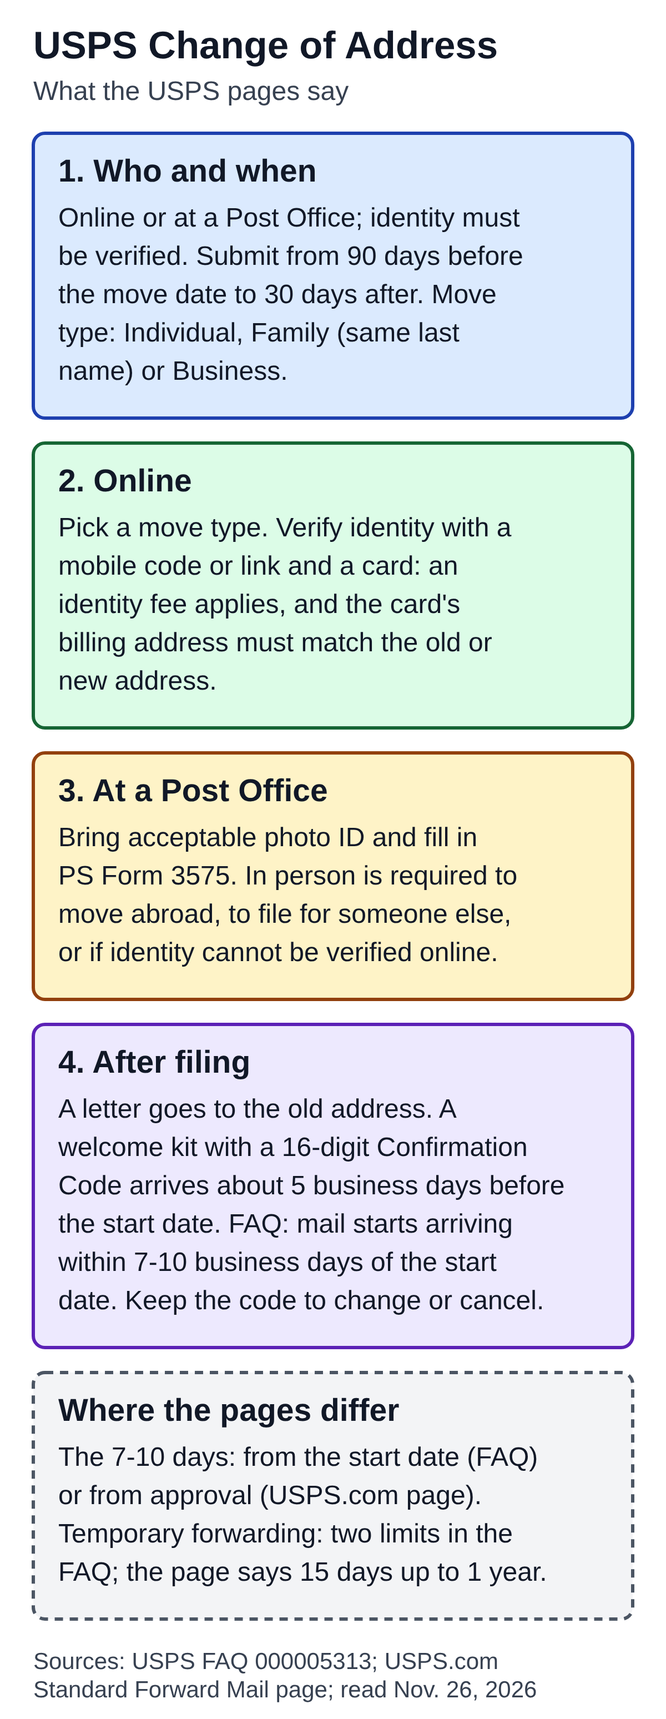
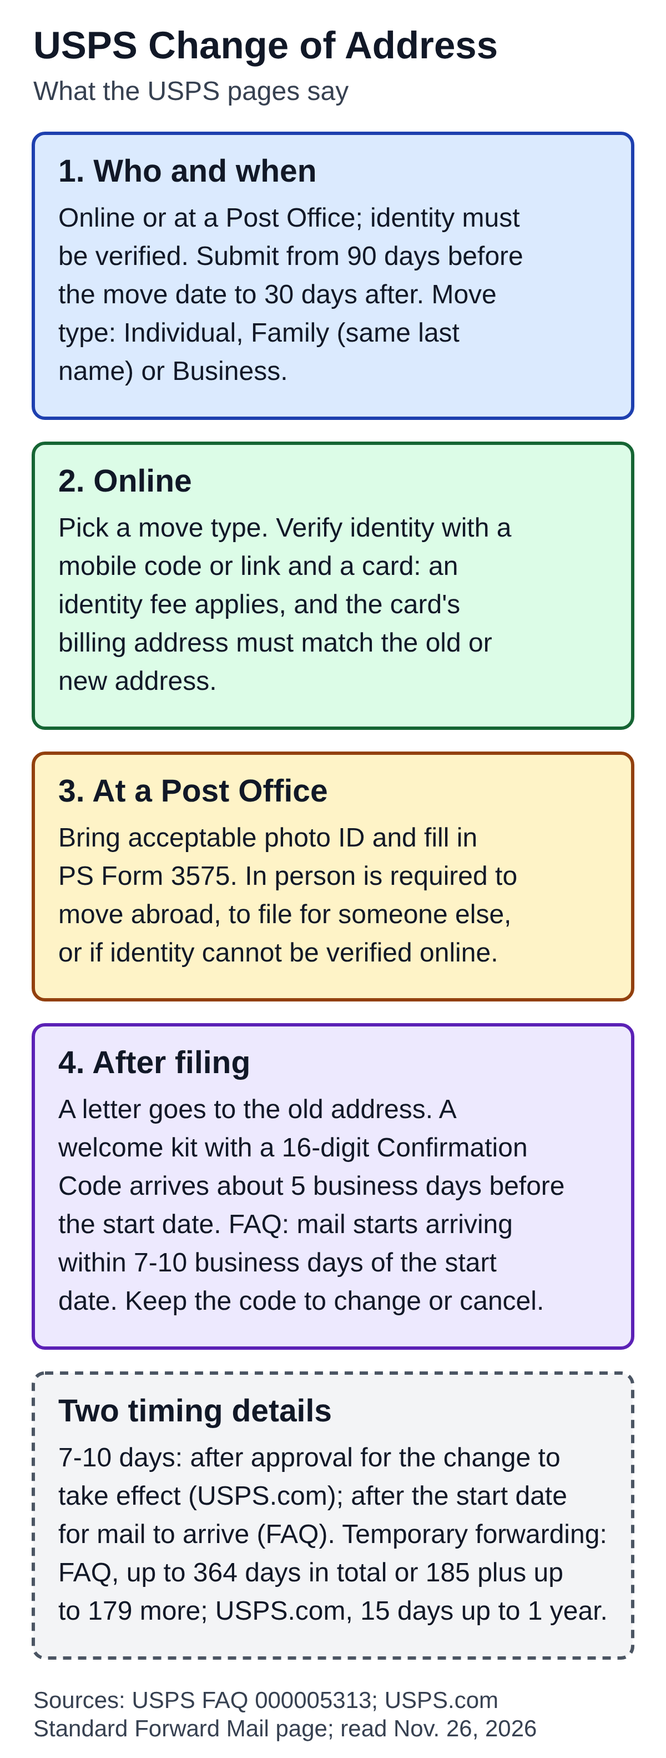
Change of Address: fix timing section after Gate 2 FIX
The 7-10 business days (after approval vs after the start date) and the temporary forwarding periods (364-day total, 185 plus up to 179 more, 15 days up to 1 year) are no longer presented as conflicts. Body, diagram and alt text changed together; records updated. Gate 2 on the changed parts not yet run.

Claude-Session: https://claude.ai/code/session_01BXtGEA3Qzg6u2ejRb8jbFU

diff --git a/docs/content-backlog.md b/docs/content-backlog.md
@@ -80,7 +80,7 @@ Pilot 12 plan: 12 published + 0 ready + 0 draft + 0 briefs = 12 slots, 4 per lan
 | 44 | `usps-return-receipt-how-it-works` | USPS Return Receipt: Green Card vs. Electronic Proof of Delivery | `usps return receipt` | **published 2026-11-25 15:00 KST (live QA passed about 15:20 KST)** (WordPress post 174, media 172; Gate 1 done by Claude: 15 claim groups, 87 phrase checks with 1 miss caused by the page's own spacing, 3 image checks; Gate 2 round 1 on `f839045` = FIX (electronic timing condition, refund exceptions in the diagram, 48 hours against 3 to 5 days not a conflict, PME "Form 3811 only" tied to the green card), applied; Gate 2 round 2 on `ee58248` = PASS for the changed parts (the reviewer could not screen-check the PNG); moved to ready 2026-11-24; three sources re-read right before scheduling with no important change; built from the repository files; editor 0 invalid blocks; 375 and 320 px checked; scheduled at 06:00 UTC on 2026-11-25; live QA after it appears) | post-pilot (not counted) | Lane: postal service and stamps. From the ninth survey's measured list; second post for the 2026-11-25 slots. Sources: FAQ 000006076 (Sep 18, 2026), FAQ 000007257 (May 18, 2026), DMM 503 section 6.0 (no date). Demand: Trends relative only (about 0.23 x the anchor over 90 days, 0.33 x over 28 days); search volume not checked. No fees. Differences shown: electronic email timing, how the email address is given, two refund-timing sentences, whether PME can have the electronic version. Three internal links (Certified Mail, redelivery, refund). Older quick WordPress draft 168 is not used. Re-read all three sources right before publishing. |
 | 45 | `usps-general-delivery-how-it-works` | USPS General Delivery: How to Receive Mail Without a Permanent Address | `usps general delivery` | (handed-over first draft from commit `6e09600`, rewritten here; Gate 1 done by Claude: FAQ 30 of 30, DMM 14 of 14 phrase checks, 3 image checks; **published 2026-11-26 09:00 KST (live QA passed about 09:20 KST)** (WordPress post 178, media 177; pushed in `d955818`; Gate 2 round 1 = PASS on `d955818` (user-reported 2026-11-25); moved to ready 2026-11-25; both sources re-read right before scheduling with no important change; built from the repository files; editor 0 invalid blocks; 375 and 320 px checked; scheduled at 00:00 UTC on 2026-11-26; live QA after it appears) | post-pilot (not counted) | Lane: postal service and stamps. One of two posts for the 2026-11-26 slots (General Delivery 9 AM KST, Registered Mail 3 PM KST). Sources: FAQ 000006989 (Aug 4, 2026), DMM 508 sections 6.0 and 11.1 (no date). Demand: handed-over Trends note (0.09 of its anchor over 90 days, 0.2 over 28 days), not re-measured, search volume not checked. No prices (free where authorized). Differences shown: longer hold and 10 or 15 day note (FAQ only), restrict against refuse or restrict, four purposes against two. Two internal links (PO Box, Hold Mail). Re-read both sources right before publishing. |
 | 46 | `usps-registered-mail-how-it-works` | USPS Registered Mail: Security, Tracking and Delivery Explained | `usps registered mail` | **scheduled 2026-11-26 15:00 KST** (WP post 181, media 180, status `future` re-read after saving; Gate 2 round 4 on `750caf5` = PASS; sources re-read 2026-11-25 with no change; editor 0 invalid blocks; 375 and 320 px checked; file moved to `content/ready/`; the Return Receipt link needs post 174 to be public first; live QA after publication) | post-pilot (not counted) | Lane: postal service and stamps. Second of two posts for the 2026-11-26 slots (3 PM KST). Sources: FAQ 000006061 (May 14, 2025), DMM 503 section 2.0 (no date), FAQ 000007968 (May 19, 2026, one row). Demand: handed-over Trends note (0.2 of its anchor over 90 days, 0.35 over 28 days), not re-measured, search volume not checked. No prices, fees or insurance amounts. Differences shown: the word receipt, eligible classes, 14 or more days against 15 days. Five internal links (Certified Mail, claims, tracking status, Return Receipt, Missing Mail); the Return Receipt post must be public first. Re-read all three sources right before publishing. |
-| 47 | `usps-change-of-address-how-it-works` | USPS Change of Address: How to File, Who Can File and What Happens Next | `usps change of address` | **draft 2026-11-26** (Gate 1 done by Claude: FAQ 63 of 63 and USPS.com page 30 of 30 phrase checks, 3 image checks; waiting for Gate 2; not moved to ready; nothing built in WordPress) | post-pilot (not counted) | Lane: postal service and stamps. First of four posts for 2026-11-27 and 2026-11-28 (slot 2026-11-27 9 AM KST). Sources: FAQ 000005313 (Oct 15, 2026), USPS.com Standard Forward Mail page (no date). Demand: relative Trends index only (highest of the surveyed USPS phrases), search volume not checked; see `docs/next-candidates-2026-11-26.md`. No prices or fees (both pages state the identity verification fee; not used). Differences shown: where the 7-10 days start, temporary forwarding limits. Three internal links (forwarding, Informed Delivery, Hold Mail). Re-read both sources right before publishing. |
+| 47 | `usps-change-of-address-how-it-works` | USPS Change of Address: How to File, Who Can File and What Happens Next | `usps change of address` | **draft 2026-11-26** (Gate 1 done by Claude: FAQ 63 of 63 and USPS.com page 30 of 30 phrase checks, 3 image checks; Gate 2 round 1 on `10872f5` = FIX on the timing section, fixed 2026-11-26, waiting for Gate 2 on the changed parts; not moved to ready; nothing built in WordPress) | post-pilot (not counted) | Lane: postal service and stamps. First of four posts for 2026-11-27 and 2026-11-28 (slot 2026-11-27 9 AM KST). Sources: FAQ 000005313 (Oct 15, 2026), USPS.com Standard Forward Mail page (no date). Demand: relative Trends index only (highest of the surveyed USPS phrases), search volume not checked; see `docs/next-candidates-2026-11-26.md`. No prices or fees (both pages state the identity verification fee; not used). Two timing details shown without calling them conflicts (after Gate 2 round 1 FIX): the 7-10 days (after approval vs after the start date) and temporary forwarding periods. Three internal links (forwarding, Informed Delivery, Hold Mail). Re-read both sources right before publishing. |
 | 48 | `usps-money-order-how-it-works` | USPS Money Orders: How to Buy, Cash and Replace One | `usps money order` | **draft 2026-11-26** (Gate 1 done by Claude: FAQ 46 of 48 (2 phrase typos of mine), USPS.com page 31 of 31 and DMM 509.3 24 of 24 phrase checks, 3 image checks; waiting for Gate 2; not moved to ready; nothing built in WordPress) | post-pilot (not counted) | Lane: postal service and stamps. Second of four posts for 2026-11-27 and 2026-11-28 (slot 2026-11-27 3 PM KST). Sources: FAQ 000006987 (Jun 10, 2026), USPS.com Sending Money Orders page (no date), DMM 509 section 3.0 (no date). **User instruction 2026-11-26: leave out the single-order limit amount**; the article also leaves out fees and every other amount. Demand: relative Trends index only (about 0.13 x the change-of-address phrase), search volume not checked. Differences shown: traveler's checks; refund and replacement timing; where to buy. One internal link (claims). Re-read all three sources right before publishing. |
 | 49 | `usps-customer-service-how-to-contact` | USPS Customer Service: How to Phone, Email or File a Complaint | `usps customer service` | **draft 2026-11-26** (Gate 1 done by Claude: USPS.com Contact Us 34 of 34, Email Us 18 of 18, USAGov 22 of 23 (1 phrase typo of mine) phrase checks, 3 image checks; waiting for Gate 2; not moved to ready; nothing built in WordPress) | post-pilot (not counted) | Lane: postal service and stamps. **Replaces USPS Insurance** in the third slot (2026-11-28 9 AM KST): the Insurance pages are mostly amounts and overlap the claims and Priority Mail vs Ground Advantage posts; reported to the user on 2026-11-26. Sources: USPS.com Contact Us (no date), USPS Email Us (no date), USAGov complaint page (updated Sep 4, 2026). Demand: relative Trends index only (about 0.62 x the change-of-address phrase), search volume not checked. No prices or fees; phone numbers and hours dated. Differences shown: mail theft, Informed Delivery help, tracking questions, TTY. Two internal links (tracking status, missing mail search). Re-read all three sources right before publishing (numbers and hours can change). |
 | 50 | `usps-free-shipping-supplies-how-it-works` | USPS Free Boxes and Envelopes: What You Can Order and the Rules That Apply | `usps free boxes` | **draft 2026-11-26** (Gate 1 done by Claude: Postal Store listing 29 of 29, nine product pages 54 of 54, Contact Us supply line 4 of 4 phrase checks, 3 image checks; waiting for Gate 2; not moved to ready; nothing built in WordPress) | post-pilot (not counted) | Lane: postal service and stamps. Fourth of four posts for 2026-11-27 and 2026-11-28 (slot 2026-11-28 3 PM KST). Sources: Postal Store Free Shipping Supplies listing and nine product pages (no update dates), USPS.com Contact Us (no date). Demand: relative Trends index only (about 0.07 x the change-of-address phrase), search volume not checked. No prices, fees or insurance amounts. Differences shown: Dual-Use tube, APO/FPO box, similar prepaid boxes that are not free. Four internal links (package pickup, certified mail, registered mail, customer service); the customer-service post must be public first. Re-read all sources right before publishing (stock and maximums change). |

diff --git a/content/drafts/usps-change-of-address-how-it-works.md b/content/drafts/usps-change-of-address-how-it-works.md
@@ -8,7 +8,7 @@ status: draft
 date: 2026-11-26
 internal_link_candidates: usps-mail-forwarding-how-long (published; forwarding periods by mail class); usps-informed-delivery-how-it-works (published; Informed Delivery suspension note); usps-hold-mail-how-it-works (published; separate service). Each appears once in the body; link texts match the live titles.
 image: assets/optimized/usps-change-of-address-how-it-works.png
-image_alt: "Diagram of what USPS pages say about a change of address. Who and when: filed online or at a Post Office, with identity verified; a request can be submitted 90 days before the move date and up to 30 days after; the move type is Individual, Family (same last name) or Business. Online: pick a move type, verify identity with a mobile code or link and a card (an identity fee applies; the billing address must match the old or new address). At a Post Office: bring acceptable photo ID and fill in PS Form 3575; filing in person is required for a move abroad, for someone else, or if identity cannot be verified online. After filing: a letter goes to the old address and a welcome kit with a 16-digit Confirmation Code arrives about 5 business days before the start date; mail starts arriving within 7-10 business days of the start date according to the FAQ; keep the code to change or cancel. The pages differ on whether the 7-10 days count from the start date or from approval, and on temporary forwarding limits."
+image_alt: "Diagram of what USPS pages say about a change of address. Who and when: filed online or at a Post Office, with identity verified; a request can be submitted 90 days before the move date and up to 30 days after; the move type is Individual, Family (same last name) or Business. Online: pick a move type, verify identity with a mobile code or link and a card (an identity fee applies; the billing address must match the old or new address). At a Post Office: bring acceptable photo ID and fill in PS Form 3575; filing in person is required for a move abroad, for someone else, or if identity cannot be verified online. After filing: a letter goes to the old address and a welcome kit with a 16-digit Confirmation Code arrives about 5 business days before the start date; mail starts arriving within 7-10 business days of the start date according to the FAQ; keep the code to change or cancel. Two timing details: USPS.com says to allow at least 7-10 business days after approval for the change to go into effect, while the FAQ gives 7-10 business days after the start date for mail to arrive; and for temporary forwarding the FAQ gives a total of up to 364 days, or a first request of up to 185 days extended by up to 179 more, while USPS.com gives a range of 15 days up to 1 year."
 ---
 
 # USPS Change of Address: How to File, Who Can File and What Happens Next
@@ -17,7 +17,7 @@ image_alt: "Diagram of what USPS pages say about a change of address. Who and wh
 
 This article uses the USPS FAQ "Change of Address - The Basics" (Article 000005313, dated October 15, 2026) and the USPS.com page "Standard Forward Mail & Change of Address" (no update date shown), both read on November 26, 2026. It gives no fees or prices. How long mail is forwarded for each mail class is in our article [How Long Does USPS Mail Forwarding Last?](https://statesideexplained.com/usps-mail-forwarding-how-long/), so this one covers the filing side.
 
-![Diagram of what USPS pages say about a change of address. Who and when: filed online or at a Post Office, with identity verified; a request can be submitted 90 days before the move date and up to 30 days after; the move type is Individual, Family (same last name) or Business. Online: pick a move type, verify identity with a mobile code or link and a card (an identity fee applies; the billing address must match the old or new address). At a Post Office: bring acceptable photo ID and fill in PS Form 3575; filing in person is required for a move abroad, for someone else, or if identity cannot be verified online. After filing: a letter goes to the old address and a welcome kit with a 16-digit Confirmation Code arrives about 5 business days before the start date; mail starts arriving within 7-10 business days of the start date according to the FAQ; keep the code to change or cancel. The pages differ on whether the 7-10 days count from the start date or from approval, and on temporary forwarding limits.](assets/optimized/usps-change-of-address-how-it-works.png)
+![Diagram of what USPS pages say about a change of address. Who and when: filed online or at a Post Office, with identity verified; a request can be submitted 90 days before the move date and up to 30 days after; the move type is Individual, Family (same last name) or Business. Online: pick a move type, verify identity with a mobile code or link and a card (an identity fee applies; the billing address must match the old or new address). At a Post Office: bring acceptable photo ID and fill in PS Form 3575; filing in person is required for a move abroad, for someone else, or if identity cannot be verified online. After filing: a letter goes to the old address and a welcome kit with a 16-digit Confirmation Code arrives about 5 business days before the start date; mail starts arriving within 7-10 business days of the start date according to the FAQ; keep the code to change or cancel. Two timing details: USPS.com says to allow at least 7-10 business days after approval for the change to go into effect, while the FAQ gives 7-10 business days after the start date for mail to arrive; and for temporary forwarding the FAQ gives a total of up to 364 days, or a first request of up to 185 days extended by up to 179 more, while USPS.com gives a range of 15 days up to 1 year.](assets/optimized/usps-change-of-address-how-it-works.png)
 
 ## Online or at a Post Office
 
@@ -56,10 +56,10 @@ If you receive a Change of Address validation letter but are not moving, the FAQ
 
 The FAQ says that if you move without filing, your carrier picks up accumulated mail and leaves a notice that it is available for pickup. The local Post Office holds accumulated mail for up to 10 calendar days, after which most items are returned to the sender and items that cannot be forwarded or returned are discarded. Hold Mail is a separate service; see [How Does USPS Hold Mail Work? Limits and Steps](https://statesideexplained.com/usps-hold-mail-how-it-works/).
 
-## Where the USPS pages differ
+## Two timing details the pages word differently
 
-- **When the 7-10 days start.** The FAQ says mail starts arriving within 7-10 postal business days of the start date. USPS.com says that once your request is approved, you should allow at least 7-10 business days for it to go into effect. The two pages count from different points, and neither says which a given request follows.
-- **Temporary limits.** One FAQ paragraph says temporary forwarding runs for a maximum of 364 days from the start date, and the next says a maximum of 185 days, with a new request extending it by up to an additional 179 days, for a total that cannot exceed 12 months. USPS.com says a temporary request is for relocating for 15 days up to 1 year. The pages do not reconcile these.
+- **The 7-10 business days.** USPS.com says that once your request is approved, you should allow at least 7-10 business days for it to go into effect. The FAQ says mail starts arriving at your new address within 7-10 postal business days of the start date. The first describes how long a change takes to take effect after approval; the second describes how long mail takes to arrive after the start date. The pages do not link the two, so this article does not add them together.
+- **Temporary forwarding periods.** The FAQ says the minimum for temporary forwarding is 15 days and that a temporary request can forward mail for a maximum of 364 days from the start date. It also describes a first request of up to 185 days, which a new request can extend by up to 179 more days, with a total forwarding time that cannot exceed 12 months. The FAQ adds that if you return to the original address for at least 45 days, the 364-day limit starts over. USPS.com describes a temporary request as for relocating for 15 days up to 1 year. The pages do not present these as conflicting: the FAQ spells out the total and how an extension fits into it, and USPS.com gives the general range.
 
 ## What the pages do not say
 

diff --git a/editorial/qa/usps-change-of-address-how-it-works.md b/editorial/qa/usps-change-of-address-how-it-works.md
@@ -1,22 +1,23 @@
 # QA — USPS Change of Address
 
-Article: `content/drafts/usps-change-of-address-how-it-works.md` (draft, 2026-11-26, about 1,490 words including sources, one H1, Sources included; meta description 147 characters; alt text 1,012 characters).
+Article: `content/drafts/usps-change-of-address-how-it-works.md` (draft, 2026-11-26, about 1,490 words including sources, one H1, Sources included; meta description 147 characters; alt text 1,279 characters).
 
-Stage: draft. Gate 1 (Claude) run on 2026-11-26. Gate 2 not yet run. Backlog row 47.
+Stage: draft. Gate 1 (Claude) run on 2026-11-26. Gate 2 round 1 (on `10872f5`) = FIX on the timing section; fixed 2026-11-26 (see below), waiting for Gate 2 on the changed parts. Backlog row 47.
 
 ## Gate 1 — claim groups
 - FAQ 000005313 (Oct 15, 2026), read directly: 63 of 63 claim phrases found (one extra string was my own typo and one a page spacing artifact; both verified by reading the page).
 - USPS.com Standard Forward Mail page: 30 of 30 claim phrases found.
 - Live link texts match published titles: forwarding (`usps-mail-forwarding-how-long`), Informed Delivery (`usps-informed-delivery-how-it-works`) and Hold Mail (`usps-hold-mail-how-it-works`), titles read from the repository front matter; link status 200 to be confirmed in the WordPress build.
 - No dollar sign or percent sign in the article (no fee amounts: the FAQ and USPS.com state them, the article does not).
-- The two page differences (the 7-10 days counted from the start date or from approval; the temporary limits) are shown as stated and not resolved.
+- The two timing details (the 7-10 days; the temporary limits) are shown as stated; after Gate 2 round 1 they are no longer presented as conflicts (see Gate 2 fix).
 
-## Where the pages differ (shown in the article, not resolved)
-- 7-10 business days: from the COA start date (FAQ) against after approval (USPS.com).
-- Temporary forwarding: FAQ gives 364 days and, in the next paragraph, 185 days plus up to 179 more with a 12-month total; USPS.com says 15 days up to 1 year.
+## Gate 2 round 1 — FIX and what changed
+Gate 2 (ChatGPT, on `10872f5`): the section "Where the USPS pages differ" wrongly treated two things as conflicts. (1) Temporary forwarding: the FAQ gives a total maximum of 364 days and, separately, a first request of up to 185 days extendable by up to 179 more days; USPS.com's "15 days up to 1 year" is not necessarily in conflict. (2) The 7-10 days: USPS.com means the time for a change to go into effect after approval; the FAQ means the time for mail to arrive after the start date; two points and two subjects.
+Fix (this commit): section renamed "Two timing details the pages word differently"; the 7-10 bullet now states the two points and subjects and says the pages do not link them; the temporary bullet states the FAQ's minimum 15 days, 364-day maximum, 185 + 179 extension, 12-month total and the 45-day restart, and says the pages do not present these as conflicting. Diagram card renamed "Two timing details" and rewritten; alt text rewritten to match (front matter and Markdown alt text identical). Nothing else in the article changed.
+Re-checked on the pages on 2026-11-26: FAQ 9 of 9 new phrases (15-day minimum, 364 days from the start date, 185 days, extension up to 179 days, 12-month total, 45-day restart, 7-10 postal business days of the start date, inaccessible during the period, no estimated delivery time); USPS.com 3 of 3 (once approved allow at least 7-10 business days; 15 days up to 1 year; temporary request).
 
 ## Image checks
-PNG 1200 x 3096 px, 555,102 bytes, SHA-256 prefix `b7a996d9cc6a83bf`; SVG 5,599 bytes, `b261473cdc5bd876`; md 11,464 bytes, `dcb0a32b166e2dd8`; C2PA chunk and metadata stripped on the device. The rendering script printed no text past the right margin; the PNG was viewed. Diagram text only repeats facts from the article; alt text matches the front matter and the Markdown alt text.
+PNG 1200 x 3165 px, 580,239 bytes, SHA-256 prefix `8db9ddc43ace7074`; SVG 6,010 bytes; md 12,484 bytes, `23431c522d6c0299` (after the Gate 2 fix; before: PNG 3096 px `b7a996d9cc6a83bf`, md `dcb0a32b166e2dd8`); C2PA chunk and metadata stripped on the device. The rendering script printed no text past the right margin; the PNG was viewed. Diagram text only repeats facts from the article; alt text matches the front matter and the Markdown alt text.
 
 ## Not checked
 Search volume; DMM 507.2.0; accepted photo IDs; WordPress (no draft or schedule exists); mobile and editor checks (after Gate 2 PASS); the pre-publication source re-read.

diff --git a/research/briefs/usps-change-of-address-how-it-works.md b/research/briefs/usps-change-of-address-how-it-works.md
@@ -2,7 +2,7 @@
 
 Stage: draft, 2026-11-26. Slot plan: 2026-11-27 (Fri) 9 AM KST, first of four posts for 2026-11-27 and 2026-11-28, after Gate 2 PASS. User approved the four topics on 2026-11-26.
 
-Question: how does a USPS change of address get filed, who can file it, what arrives afterwards, and how is it changed, cancelled or disputed. Scope: online against Post Office filing, identity verification, move types, filing for someone else, Move Validation Letter, Welcome Kit and Confirmation Code, modify, cancel and dispute rules, what happens with no change of address on file, and where the FAQ and the USPS.com page differ. No prices or fees: both pages state the identity verification fee and the FAQ states a duplicate-letter fee and a third-party-site fee; none is used.
+Question: how does a USPS change of address get filed, who can file it, what arrives afterwards, and how is it changed, cancelled or disputed. Scope: online against Post Office filing, identity verification, move types, filing for someone else, Move Validation Letter, Welcome Kit and Confirmation Code, modify, cancel and dispute rules, what happens with no change of address on file, and two timing details the FAQ and the USPS.com page word differently (the 7-10 days; temporary forwarding periods). No prices or fees: both pages state the identity verification fee and the FAQ states a duplicate-letter fee and a third-party-site fee; none is used.
 
 Overlap: the published forwarding post (`usps-mail-forwarding-how-long`) covers forwarding periods by mail class and Extended Mail Forwarding; this article links to it and does not repeat those. Hold Mail and Informed Delivery are linked once each.
 

diff --git a/docs/decision-log.md b/docs/decision-log.md
@@ -1654,3 +1654,7 @@ Before drafting the third slot (2026-11-28 9 AM KST) the official Insurance page
 ## 2026-11-26 (KST) — Free Shipping Supplies drafted
 
 The fourth slot (2026-11-28 3 PM KST) was read and compared with published posts before drafting, as the user asked: the Postal Store listing, nine product pages and the Contact Us supply line give clear rules and no published post covers them, so it stands as its own article (backlog row 50), "USPS Free Boxes and Envelopes: What You Can Order and the Rules That Apply". Gate 1 passed (87 of 87); no prices, fees or insurance amounts. It links to the customer-service post, which must go public first (9 AM KST slot). Waiting for Gate 2.
+
+## 2026-11-26 (KST) — Change of Address: Gate 2 round 1 FIX applied
+
+The user relayed Gate 2 on `10872f5`: Change of Address = FIX; the other three posts were not judged PASS (Gate 2 and the pre-publication source check not finished; the Free Boxes post needs the customer-service post public before its link opens). The fix: the section that called the 7-10 days and the temporary forwarding periods differences between the pages is rewritten, because the pages describe different points (after approval vs after the start date) and the FAQ's 364-day total and 185 + 179 extension are consistent with USPS.com's 15 days up to 1 year. Body, diagram and alt text changed together; nothing else. Nothing is scheduled; the post waits for Gate 2 on the changed parts.

diff --git a/research/sources/usps-change-of-address-how-it-works.md b/research/sources/usps-change-of-address-how-it-works.md
@@ -12,3 +12,6 @@ Retrieved **2026-11-26** by Cowork (Claude) in the built-in browser; text read b
 
 ## Not read / not used
 DMM 507.2.0; the USPS page on acceptable identification; Premium Forwarding Services; the Hold Mail FAQ; Informed Delivery pages (the Informed Delivery and Hold Mail points are attributed to the FAQ and to our own published articles for the service itself).
+
+## Re-read for Gate 2 fix (2026-11-26)
+FAQ 000005313: temporary forwarding minimum 15 days; maximum 364 days from the start date; a first request of up to 185 days extendable by up to 179 more days; total cannot exceed 12 months; 45 days back at the original address restarts the 364-day limit; mail starts arriving within 7-10 postal business days of the start date. USPS.com: once the request is approved allow at least 7-10 business days for it to go into effect; temporary request for 15 days up to 1 year. All present on the pages.
